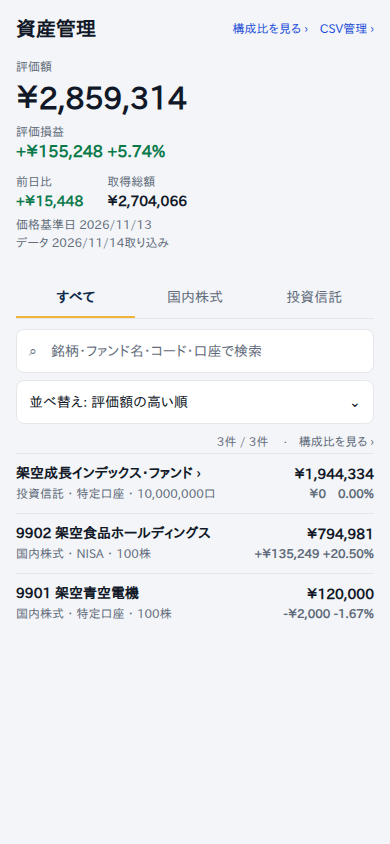
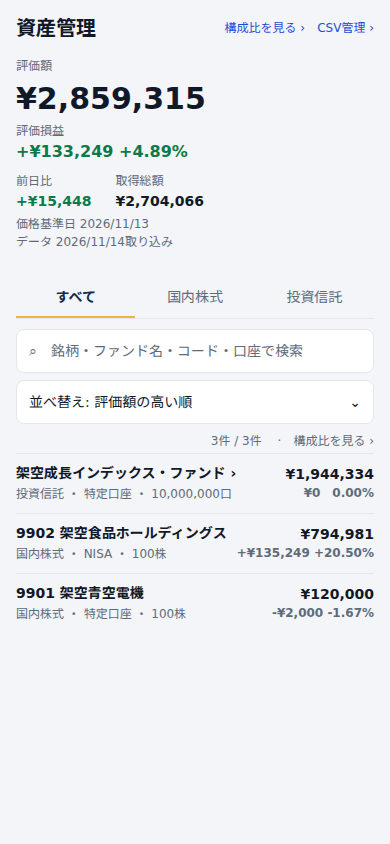
fix: デザイン見本の集計を行合計に合わせる

diff --git a/docs/design/work/phase10-redesign/receipts-pc.html b/docs/design/work/phase10-redesign/receipts-pc.html
@@ -1,2 +1,2 @@
 <!doctype html><html lang="ja" data-theme="light"><head><meta charset="utf-8"><meta name="viewport" content="width=device-width,initial-scale=1"><title>取引明細 | 証券Web</title><style>
-:root{--page:#f3f5f8;--surface:#fff;--ink:#111827;--muted:#5f6b7a;--line:#e5e7eb;--brand:#0f2a4a;--accent:#1d4ed8;--positive:#0b7a4b;--negative:#c0362c;--gold:#f2b33d;--segment:#eef2f8}html[data-theme=dark]{--page:#0e0e10;--surface:#17171a;--ink:#e4e4e7;--muted:#b4b4ba;--line:#29292d;--brand:#f4f4f5;--accent:#8fb3f7;--positive:#53d28a;--negative:#f0857a;--gold:#8fb3f7;--segment:#252528}*{box-sizing:border-box}body{margin:0;background:var(--page);color:var(--ink);font:14px/1.45 system-ui,'Noto Sans JP',sans-serif}.num{font-variant-numeric:tabular-nums}.up{color:var(--positive)}.down{color:var(--negative)}.wrap{max-width:500px;margin:auto;padding:0 16px 24px}.title{display:flex;align-items:center;justify-content:space-between;margin-top:14px}.title h1{font-size:20px;margin:0}.link{color:var(--accent);font-size:13px}.hero{padding:12px 0 8px}.label{font-size:12px;color:var(--muted);margin:0}.total{font-size:30px;font-weight:700;margin:2px 0}.secondary{display:flex;gap:18px;flex-wrap:wrap}.secondary strong{display:block;font-size:15px}.period{font-size:12px;color:var(--muted);margin-top:5px}.tabs{display:flex;border-bottom:1px solid var(--line)}.tabs span{flex:1;text-align:center;padding:12px 0 9px;color:var(--muted);white-space:nowrap}.tabs .active{color:var(--brand);font-weight:700;border-bottom:2px solid var(--gold)}.search,.sort{height:44px;display:flex;align-items:center;padding:0 12px;border:1px solid var(--line);border-radius:8px;background:var(--surface);margin-top:10px;color:var(--muted)}.sort{justify-content:space-between;margin-top:7px;color:var(--ink)}.count{text-align:right;color:var(--muted);font-size:12px;margin:8px 0}.month{margin-top:16px}.monthhead{display:flex;align-items:baseline;justify-content:space-between;gap:6px;border-bottom:1px solid var(--line);padding-bottom:6px}.monthhead h2{font-size:15px;margin:0;white-space:nowrap}.monthhead .totals{font-size:11px;color:var(--muted);text-align:right;white-space:nowrap}.monthhead .totals b{font-weight:700}.row{min-height:58px;border-bottom:1px solid var(--line);display:flex;align-items:center;justify-content:space-between;gap:8px;padding:8px 0}.name{min-width:0}.name strong{display:block;white-space:nowrap;overflow:hidden;text-overflow:ellipsis}.name small{font-size:12px;color:var(--muted)}.amount{text-align:right;white-space:nowrap;font-weight:700}.amount small{display:block;font-size:11px;color:var(--muted);font-weight:400}@media(min-width:700px){body{min-width:1280px}.wrap{max-width:1200px;padding:0 30px 24px}.title{margin-top:18px}.hero{display:flex;align-items:end;gap:28px}.hero .period{margin-left:auto;text-align:right}.secondary{gap:22px}.secondary strong{font-size:20px}.tabs{max-width:600px}.tabs span{padding:13px 20px}.search{margin-top:14px}.sort{display:none}.count{text-align:left}.month{margin-top:18px}.desktop{display:block}.mobile{display:none}table{width:100%;border-collapse:collapse;font-size:13px;margin-top:8px}th,td{padding:9px 10px;border-bottom:1px solid var(--line);white-space:nowrap;text-align:left}th{font-weight:400;color:var(--muted)}td.r,th.r{text-align:right}.monthrow td{background:var(--segment);font-weight:700}.monthrow .monthlabel{font-size:14px}.monthrow .space{border-left:3px solid var(--gold)}}</style></head><body><main class="wrap"><div class="title"><h1>取引明細</h1><span class="link">CSV管理 ›</span></div><section class="hero"><div><p class="label">実現損益(税引後)</p><p class="total num">+¥184,320</p></div><div><p class="label">実現損益(税引前)</p><strong class="up num">+¥232,000</strong></div><div><p class="label">税額</p><strong class="down num">-¥47,680</strong></div><p class="period">2026/01 〜 2026/12 ・ 19件</p></section><div class="tabs"><span>配当金</span><span class="active">国内株式</span><span>投資信託</span></div><div class="search">⌕　銘柄名・コードで検索　　期間: 2026年　　口座: すべて</div><div class="count">19件　・　条件を追加　・　列名クリックで並べ替え</div><table><thead><tr><th>約定日</th><th>銘柄コード</th><th>銘柄名</th><th>口座</th><th class="r">数量</th><th class="r">売却額</th><th class="r">取得価額</th><th class="r">実現損益</th><th class="r">税額</th><th class="r">税引後</th></tr></thead><tbody><tr class="monthrow"><td colspan="7" class="monthlabel">2026年12月・3件</td><td class="r up">+¥42,600</td><td class="r down">-¥7,762</td><td class="r up">+¥34,838</td></tr><tr><td>12/18</td><td>7203</td><td>架空自動車工業</td><td>特定口座</td><td class="r">100株</td><td class="r">¥142,000</td><td class="r">¥103,800</td><td class="r up">+¥38,200</td><td class="r down">-¥7,762</td><td class="r up">+¥30,438</td></tr><tr><td>12/12</td><td>8306</td><td>架空みらい銀行</td><td>NISA</td><td class="r">50株</td><td class="r">¥52,400</td><td class="r">¥40,000</td><td class="r up">+¥12,400</td><td class="r down">¥0</td><td class="r up">+¥12,400</td></tr><tr><td>12/03</td><td>6758</td><td>架空音響機器</td><td>特定口座</td><td class="r">20株</td><td class="r">¥32,000</td><td class="r">¥40,000</td><td class="r down">-¥8,000</td><td class="r down">+¥1,624</td><td class="r down">-¥6,376</td></tr><tr class="monthrow"><td colspan="7" class="monthlabel">2026年11月・2件</td><td class="r down">-¥18,500</td><td class="r up">+¥4,876</td><td class="r down">-¥13,624</td></tr><tr><td>11/20</td><td>9432</td><td>架空通信</td><td>特定口座</td><td class="r">100株</td><td class="r">¥76,000</td><td class="r">¥100,000</td><td class="r down">-¥24,000</td><td class="r down">+¥4,876</td><td class="r down">-¥19,124</td></tr><tr><td>11/08</td><td>7203</td><td>架空自動車工業</td><td>NISA</td><td class="r">10株</td><td class="r">¥28,500</td><td class="r">¥23,000</td><td class="r up">+¥5,500</td><td class="r down">¥0</td><td class="r up">+¥5,500</td></tr><tr class="monthrow"><td colspan="7" class="monthlabel">2026年10月・2件</td><td class="r up">+¥31,200</td><td class="r down">-¥5,258</td><td class="r up">+¥25,942</td></tr><tr><td>10/24</td><td>8306</td><td>架空みらい銀行</td><td>特定口座</td><td class="r">80株</td><td class="r">¥66,000</td><td class="r">¥40,000</td><td class="r up">+¥26,000</td><td class="r down">-¥5,258</td><td class="r up">+¥20,742</td></tr><tr><td>10/10</td><td>6501</td><td>架空電機グループ</td><td>特定口座</td><td class="r">40株</td><td class="r">¥21,200</td><td class="r">¥16,000</td><td class="r up">+¥5,200</td><td class="r down">-¥1,052</td><td class="r up">+¥4,148</td></tr><tr class="monthrow"><td colspan="7" class="monthlabel">2026年9月・2件</td><td class="r up">+¥8,900</td><td class="r down">-¥1,809</td><td class="r up">+¥7,091</td></tr><tr><td>09/21</td><td>6758</td><td>架空音響機器</td><td>特定口座</td><td class="r">30株</td><td class="r">¥48,000</td><td class="r">¥36,000</td><td class="r up">+¥12,000</td><td class="r down">-¥2,438</td><td class="r up">+¥9,562</td></tr><tr><td>09/05</td><td>9432</td><td>架空通信</td><td>特定口座</td><td class="r">100株</td><td class="r">¥56,900</td><td class="r">¥60,000</td><td class="r down">-¥3,100</td><td class="r down">+¥629</td><td class="r down">-¥2,471</td></tr><tr class="monthrow"><td colspan="7" class="monthlabel">2026年8月・1件</td><td class="r up">+¥6,400</td><td class="r down">-¥1,296</td><td class="r up">+¥5,104</td></tr><tr><td>08/19</td><td>7203</td><td>架空自動車工業</td><td>特定口座</td><td class="r">20株</td><td class="r">¥36,400</td><td class="r">¥30,000</td><td class="r up">+¥6,400</td><td class="r down">-¥1,296</td><td class="r up">+¥5,104</td></tr><tr class="monthrow"><td colspan="7" class="monthlabel">2026年7月・1件</td><td class="r down">-¥2,800</td><td class="r up">+¥568</td><td class="r down">-¥2,232</td></tr><tr><td>07/16</td><td>6501</td><td>架空電機グループ</td><td>特定口座</td><td class="r">20株</td><td class="r">¥17,200</td><td class="r">¥20,000</td><td class="r down">-¥2,800</td><td class="r down">+¥568</td><td class="r down">-¥2,232</td></tr><tr class="monthrow"><td colspan="7" class="monthlabel">2026年6月・2件</td><td class="r up">+¥58,200</td><td class="r down">-¥9,244</td><td class="r up">+¥48,956</td></tr><tr><td>06/25</td><td>8306</td><td>架空みらい銀行</td><td>特定口座</td><td class="r">100株</td><td class="r">¥96,000</td><td class="r">¥50,000</td><td class="r up">+¥46,000</td><td class="r down">-¥9,244</td><td class="r up">+¥36,756</td></tr><tr><td>06/11</td><td>7203</td><td>架空自動車工業</td><td>NISA</td><td class="r">25株</td><td class="r">¥52,200</td><td class="r">¥40,000</td><td class="r up">+¥12,200</td><td class="r down">¥0</td><td class="r up">+¥12,200</td></tr><tr class="monthrow"><td colspan="7" class="monthlabel">2026年5月・1件</td><td class="r up">+¥4,100</td><td class="r down">-¥829</td><td class="r up">+¥3,271</td></tr><tr><td>05/20</td><td>9432</td><td>架空通信</td><td>特定口座</td><td class="r">50株</td><td class="r">¥29,100</td><td class="r">¥25,000</td><td class="r up">+¥4,100</td><td class="r down">-¥829</td><td class="r up">+¥3,271</td></tr><tr class="monthrow"><td colspan="7" class="monthlabel">2026年4月・1件</td><td class="r down">-¥1,600</td><td class="r up">+¥325</td><td class="r down">-¥1,275</td></tr><tr><td>04/18</td><td>6501</td><td>架空電機グループ</td><td>特定口座</td><td class="r">10株</td><td class="r">¥14,400</td><td class="r">¥16,000</td><td class="r down">-¥1,600</td><td class="r down">+¥324</td><td class="r down">-¥1,276</td></tr><tr class="monthrow"><td colspan="7" class="monthlabel">2026年3月・2件</td><td class="r up">+¥21,700</td><td class="r down">-¥3,657</td><td class="r up">+¥18,043</td></tr><tr><td>03/28</td><td>7203</td><td>架空自動車工業</td><td>特定口座</td><td class="r">40株</td><td class="r">¥78,000</td><td class="r">¥60,000</td><td class="r up">+¥18,000</td><td class="r down">-¥3,657</td><td class="r up">+¥14,343</td></tr><tr><td>03/15</td><td>8306</td><td>架空みらい銀行</td><td>NISA</td><td class="r">10株</td><td class="r">¥23,700</td><td class="r">¥20,000</td><td class="r up">+¥3,700</td><td class="r down">¥0</td><td class="r up">+¥3,700</td></tr><tr class="monthrow"><td colspan="7" class="monthlabel">2026年2月・1件</td><td class="r up">+¥2,300</td><td class="r down">-¥467</td><td class="r up">+¥1,833</td></tr><tr><td>02/19</td><td>9432</td><td>架空通信</td><td>特定口座</td><td class="r">20株</td><td class="r">¥16,300</td><td class="r">¥14,000</td><td class="r up">+¥2,300</td><td class="r down">-¥466</td><td class="r up">+¥1,834</td></tr><tr class="monthrow"><td colspan="7" class="monthlabel">2026年1月・1件</td><td class="r up">+¥1,800</td><td class="r down">-¥365</td><td class="r up">+¥1,435</td></tr><tr><td>01/20</td><td>7203</td><td>架空自動車工業</td><td>特定口座</td><td class="r">10株</td><td class="r">¥19,800</td><td class="r">¥18,000</td><td class="r up">+¥1,800</td><td class="r down">-¥365</td><td class="r up">+¥1,435</td></tr></tbody></table></main><script>const theme=new URLSearchParams(location.search).get('theme');if(theme)document.documentElement.dataset.theme=theme;</script></body></html>
+:root{--page:#f3f5f8;--surface:#fff;--ink:#111827;--muted:#5f6b7a;--line:#e5e7eb;--brand:#0f2a4a;--accent:#1d4ed8;--positive:#0b7a4b;--negative:#c0362c;--gold:#f2b33d;--segment:#eef2f8}html[data-theme=dark]{--page:#0e0e10;--surface:#17171a;--ink:#e4e4e7;--muted:#b4b4ba;--line:#29292d;--brand:#f4f4f5;--accent:#8fb3f7;--positive:#53d28a;--negative:#f0857a;--gold:#8fb3f7;--segment:#252528}*{box-sizing:border-box}body{margin:0;background:var(--page);color:var(--ink);font:14px/1.45 system-ui,'Noto Sans JP',sans-serif}.num{font-variant-numeric:tabular-nums}.up{color:var(--positive)}.down{color:var(--negative)}.wrap{max-width:500px;margin:auto;padding:0 16px 24px}.title{display:flex;align-items:center;justify-content:space-between;margin-top:14px}.title h1{font-size:20px;margin:0}.link{color:var(--accent);font-size:13px}.hero{padding:12px 0 8px}.label{font-size:12px;color:var(--muted);margin:0}.total{font-size:30px;font-weight:700;margin:2px 0}.secondary{display:flex;gap:18px;flex-wrap:wrap}.secondary strong{display:block;font-size:15px}.period{font-size:12px;color:var(--muted);margin-top:5px}.tabs{display:flex;border-bottom:1px solid var(--line)}.tabs span{flex:1;text-align:center;padding:12px 0 9px;color:var(--muted);white-space:nowrap}.tabs .active{color:var(--brand);font-weight:700;border-bottom:2px solid var(--gold)}.search,.sort{height:44px;display:flex;align-items:center;padding:0 12px;border:1px solid var(--line);border-radius:8px;background:var(--surface);margin-top:10px;color:var(--muted)}.sort{justify-content:space-between;margin-top:7px;color:var(--ink)}.count{text-align:right;color:var(--muted);font-size:12px;margin:8px 0}.month{margin-top:16px}.monthhead{display:flex;align-items:baseline;justify-content:space-between;gap:6px;border-bottom:1px solid var(--line);padding-bottom:6px}.monthhead h2{font-size:15px;margin:0;white-space:nowrap}.monthhead .totals{font-size:11px;color:var(--muted);text-align:right;white-space:nowrap}.monthhead .totals b{font-weight:700}.row{min-height:58px;border-bottom:1px solid var(--line);display:flex;align-items:center;justify-content:space-between;gap:8px;padding:8px 0}.name{min-width:0}.name strong{display:block;white-space:nowrap;overflow:hidden;text-overflow:ellipsis}.name small{font-size:12px;color:var(--muted)}.amount{text-align:right;white-space:nowrap;font-weight:700}.amount small{display:block;font-size:11px;color:var(--muted);font-weight:400}@media(min-width:700px){body{min-width:1280px}.wrap{max-width:1200px;padding:0 30px 24px}.title{margin-top:18px}.hero{display:flex;align-items:end;gap:28px}.hero .period{margin-left:auto;text-align:right}.secondary{gap:22px}.secondary strong{font-size:20px}.tabs{max-width:600px}.tabs span{padding:13px 20px}.search{margin-top:14px}.sort{display:none}.count{text-align:left}.month{margin-top:18px}.desktop{display:block}.mobile{display:none}table{width:100%;border-collapse:collapse;font-size:13px;margin-top:8px}th,td{padding:9px 10px;border-bottom:1px solid var(--line);white-space:nowrap;text-align:left}th{font-weight:400;color:var(--muted)}td.r,th.r{text-align:right}.monthrow td{background:var(--segment);font-weight:700}.monthrow .monthlabel{font-size:14px}.monthrow .space{border-left:3px solid var(--gold)}}</style></head><body><main class="wrap"><div class="title"><h1>取引明細</h1><span class="link">CSV管理 ›</span></div><section class="hero"><div><p class="label">実現損益(税引後)</p><p class="total num">+¥129,955</p></div><div><p class="label">実現損益(税引前)</p><strong class="up num">+¥154,300</strong></div><div><p class="label">税額</p><strong class="down num">-¥24,345</strong></div><p class="period">2026/01 〜 2026/12 ・ 19件</p></section><div class="tabs"><span>配当金</span><span class="active">国内株式</span><span>投資信託</span></div><div class="search">⌕　銘柄名・コードで検索　　期間: 2026年　　口座: すべて</div><div class="count">19件　・　条件を追加　・　列名クリックで並べ替え</div><table><thead><tr><th>約定日</th><th>銘柄コード</th><th>銘柄名</th><th>口座</th><th class="r">数量</th><th class="r">売却額</th><th class="r">取得価額</th><th class="r">実現損益</th><th class="r">税額</th><th class="r">税引後</th></tr></thead><tbody><tr class="monthrow"><td colspan="7" class="monthlabel">2026年12月・3件</td><td class="r up">+¥42,600</td><td class="r down">-¥6,138</td><td class="r up">+¥36,462</td></tr><tr><td>12/18</td><td>7203</td><td>架空自動車工業</td><td>特定口座</td><td class="r">100株</td><td class="r">¥142,000</td><td class="r">¥103,800</td><td class="r up">+¥38,200</td><td class="r down">-¥7,762</td><td class="r up">+¥30,438</td></tr><tr><td>12/12</td><td>8306</td><td>架空みらい銀行</td><td>NISA</td><td class="r">50株</td><td class="r">¥52,400</td><td class="r">¥40,000</td><td class="r up">+¥12,400</td><td class="r down">¥0</td><td class="r up">+¥12,400</td></tr><tr><td>12/03</td><td>6758</td><td>架空音響機器</td><td>特定口座</td><td class="r">20株</td><td class="r">¥32,000</td><td class="r">¥40,000</td><td class="r down">-¥8,000</td><td class="r down">+¥1,624</td><td class="r down">-¥6,376</td></tr><tr class="monthrow"><td colspan="7" class="monthlabel">2026年11月・2件</td><td class="r down">-¥18,500</td><td class="r up">+¥4,876</td><td class="r down">-¥13,624</td></tr><tr><td>11/20</td><td>9432</td><td>架空通信</td><td>特定口座</td><td class="r">100株</td><td class="r">¥76,000</td><td class="r">¥100,000</td><td class="r down">-¥24,000</td><td class="r down">+¥4,876</td><td class="r down">-¥19,124</td></tr><tr><td>11/08</td><td>7203</td><td>架空自動車工業</td><td>NISA</td><td class="r">10株</td><td class="r">¥28,500</td><td class="r">¥23,000</td><td class="r up">+¥5,500</td><td class="r down">¥0</td><td class="r up">+¥5,500</td></tr><tr class="monthrow"><td colspan="7" class="monthlabel">2026年10月・2件</td><td class="r up">+¥31,200</td><td class="r down">-¥6,310</td><td class="r up">+¥24,890</td></tr><tr><td>10/24</td><td>8306</td><td>架空みらい銀行</td><td>特定口座</td><td class="r">80株</td><td class="r">¥66,000</td><td class="r">¥40,000</td><td class="r up">+¥26,000</td><td class="r down">-¥5,258</td><td class="r up">+¥20,742</td></tr><tr><td>10/10</td><td>6501</td><td>架空電機グループ</td><td>特定口座</td><td class="r">40株</td><td class="r">¥21,200</td><td class="r">¥16,000</td><td class="r up">+¥5,200</td><td class="r down">-¥1,052</td><td class="r up">+¥4,148</td></tr><tr class="monthrow"><td colspan="7" class="monthlabel">2026年9月・2件</td><td class="r up">+¥8,900</td><td class="r down">-¥1,809</td><td class="r up">+¥7,091</td></tr><tr><td>09/21</td><td>6758</td><td>架空音響機器</td><td>特定口座</td><td class="r">30株</td><td class="r">¥48,000</td><td class="r">¥36,000</td><td class="r up">+¥12,000</td><td class="r down">-¥2,438</td><td class="r up">+¥9,562</td></tr><tr><td>09/05</td><td>9432</td><td>架空通信</td><td>特定口座</td><td class="r">100株</td><td class="r">¥56,900</td><td class="r">¥60,000</td><td class="r down">-¥3,100</td><td class="r down">+¥629</td><td class="r down">-¥2,471</td></tr><tr class="monthrow"><td colspan="7" class="monthlabel">2026年8月・1件</td><td class="r up">+¥6,400</td><td class="r down">-¥1,296</td><td class="r up">+¥5,104</td></tr><tr><td>08/19</td><td>7203</td><td>架空自動車工業</td><td>特定口座</td><td class="r">20株</td><td class="r">¥36,400</td><td class="r">¥30,000</td><td class="r up">+¥6,400</td><td class="r down">-¥1,296</td><td class="r up">+¥5,104</td></tr><tr class="monthrow"><td colspan="7" class="monthlabel">2026年7月・1件</td><td class="r down">-¥2,800</td><td class="r up">+¥568</td><td class="r down">-¥2,232</td></tr><tr><td>07/16</td><td>6501</td><td>架空電機グループ</td><td>特定口座</td><td class="r">20株</td><td class="r">¥17,200</td><td class="r">¥20,000</td><td class="r down">-¥2,800</td><td class="r down">+¥568</td><td class="r down">-¥2,232</td></tr><tr class="monthrow"><td colspan="7" class="monthlabel">2026年6月・2件</td><td class="r up">+¥58,200</td><td class="r down">-¥9,244</td><td class="r up">+¥48,956</td></tr><tr><td>06/25</td><td>8306</td><td>架空みらい銀行</td><td>特定口座</td><td class="r">100株</td><td class="r">¥96,000</td><td class="r">¥50,000</td><td class="r up">+¥46,000</td><td class="r down">-¥9,244</td><td class="r up">+¥36,756</td></tr><tr><td>06/11</td><td>7203</td><td>架空自動車工業</td><td>NISA</td><td class="r">25株</td><td class="r">¥52,200</td><td class="r">¥40,000</td><td class="r up">+¥12,200</td><td class="r down">¥0</td><td class="r up">+¥12,200</td></tr><tr class="monthrow"><td colspan="7" class="monthlabel">2026年5月・1件</td><td class="r up">+¥4,100</td><td class="r down">-¥829</td><td class="r up">+¥3,271</td></tr><tr><td>05/20</td><td>9432</td><td>架空通信</td><td>特定口座</td><td class="r">50株</td><td class="r">¥29,100</td><td class="r">¥25,000</td><td class="r up">+¥4,100</td><td class="r down">-¥829</td><td class="r up">+¥3,271</td></tr><tr class="monthrow"><td colspan="7" class="monthlabel">2026年4月・1件</td><td class="r down">-¥1,600</td><td class="r up">+¥325</td><td class="r down">-¥1,275</td></tr><tr><td>04/18</td><td>6501</td><td>架空電機グループ</td><td>特定口座</td><td class="r">10株</td><td class="r">¥14,400</td><td class="r">¥16,000</td><td class="r down">-¥1,600</td><td class="r down">+¥325</td><td class="r down">-¥1,275</td></tr><tr class="monthrow"><td colspan="7" class="monthlabel">2026年3月・2件</td><td class="r up">+¥21,700</td><td class="r down">-¥3,657</td><td class="r up">+¥18,043</td></tr><tr><td>03/28</td><td>7203</td><td>架空自動車工業</td><td>特定口座</td><td class="r">40株</td><td class="r">¥78,000</td><td class="r">¥60,000</td><td class="r up">+¥18,000</td><td class="r down">-¥3,657</td><td class="r up">+¥14,343</td></tr><tr><td>03/15</td><td>8306</td><td>架空みらい銀行</td><td>NISA</td><td class="r">10株</td><td class="r">¥23,700</td><td class="r">¥20,000</td><td class="r up">+¥3,700</td><td class="r down">¥0</td><td class="r up">+¥3,700</td></tr><tr class="monthrow"><td colspan="7" class="monthlabel">2026年2月・1件</td><td class="r up">+¥2,300</td><td class="r down">-¥466</td><td class="r up">+¥1,834</td></tr><tr><td>02/19</td><td>9432</td><td>架空通信</td><td>特定口座</td><td class="r">20株</td><td class="r">¥16,300</td><td class="r">¥14,000</td><td class="r up">+¥2,300</td><td class="r down">-¥466</td><td class="r up">+¥1,834</td></tr><tr class="monthrow"><td colspan="7" class="monthlabel">2026年1月・1件</td><td class="r up">+¥1,800</td><td class="r down">-¥365</td><td class="r up">+¥1,435</td></tr><tr><td>01/20</td><td>7203</td><td>架空自動車工業</td><td>特定口座</td><td class="r">10株</td><td class="r">¥19,800</td><td class="r">¥18,000</td><td class="r up">+¥1,800</td><td class="r down">-¥365</td><td class="r up">+¥1,435</td></tr></tbody></table></main><script>const theme=new URLSearchParams(location.search).get('theme');if(theme)document.documentElement.dataset.theme=theme;</script></body></html>

diff --git a/docs/design/work/phase10-redesign/receipts-mobile.html b/docs/design/work/phase10-redesign/receipts-mobile.html
@@ -1,6 +1,6 @@
 <!doctype html><html lang="ja" data-theme="light"><head><meta charset="utf-8"><meta name="viewport" content="width=device-width,initial-scale=1"><title>取引明細 | 証券Web</title><style>
 :root{--page:#f3f5f8;--surface:#fff;--ink:#111827;--muted:#5f6b7a;--line:#e5e7eb;--brand:#0f2a4a;--accent:#1d4ed8;--positive:#0b7a4b;--negative:#c0362c;--gold:#f2b33d;--segment:#eef2f8}html[data-theme=dark]{--page:#0e0e10;--surface:#17171a;--ink:#e4e4e7;--muted:#b4b4ba;--line:#29292d;--brand:#f4f4f5;--accent:#8fb3f7;--positive:#53d28a;--negative:#f0857a;--gold:#8fb3f7;--segment:#252528}*{box-sizing:border-box}body{margin:0;background:var(--page);color:var(--ink);font:14px/1.45 system-ui,'Noto Sans JP',sans-serif}.num{font-variant-numeric:tabular-nums}.up{color:var(--positive)}.down{color:var(--negative)}.wrap{max-width:500px;margin:auto;padding:0 16px 24px}.title{display:flex;align-items:center;justify-content:space-between;margin-top:14px}.title h1{font-size:20px;margin:0}.link{color:var(--accent);font-size:13px}.hero{padding:12px 0 8px}.label{font-size:12px;color:var(--muted);margin:0}.total{font-size:30px;font-weight:700;margin:2px 0}.secondary{display:flex;gap:18px;flex-wrap:wrap}.secondary strong{display:block;font-size:15px}.period{font-size:12px;color:var(--muted);margin-top:5px}.tabs{display:flex;border-bottom:1px solid var(--line)}.tabs span{flex:1;text-align:center;padding:12px 0 9px;color:var(--muted);white-space:nowrap}.tabs .active{color:var(--brand);font-weight:700;border-bottom:2px solid var(--gold)}.search,.sort{height:44px;display:flex;align-items:center;padding:0 12px;border:1px solid var(--line);border-radius:8px;background:var(--surface);margin-top:10px;color:var(--muted)}.sort{justify-content:space-between;margin-top:7px;color:var(--ink)}.count{text-align:right;color:var(--muted);font-size:12px;margin:8px 0}.month{margin-top:16px}.monthhead{display:flex;align-items:baseline;justify-content:space-between;gap:6px;border-bottom:1px solid var(--line);padding-bottom:6px}.monthhead h2{font-size:15px;margin:0;white-space:nowrap}.monthhead .totals{font-size:11px;color:var(--muted);text-align:right;white-space:nowrap}.monthhead .totals b{font-weight:700}.row{min-height:58px;border-bottom:1px solid var(--line);display:flex;align-items:center;justify-content:space-between;gap:8px;padding:8px 0}.name{min-width:0}.name strong{display:block;white-space:nowrap;overflow:hidden;text-overflow:ellipsis}.name small{font-size:12px;color:var(--muted)}.amount{text-align:right;white-space:nowrap;font-weight:700}.amount small{display:block;font-size:11px;color:var(--muted);font-weight:400}@media(min-width:700px){body{min-width:1280px}.wrap{max-width:1200px;padding:0 30px 24px}.title{margin-top:18px}.hero{display:flex;align-items:end;gap:28px}.hero .period{margin-left:auto;text-align:right}.secondary{gap:22px}.secondary strong{font-size:20px}.tabs{max-width:600px}.tabs span{padding:13px 20px}.search{margin-top:14px}.sort{display:none}.count{text-align:left}.month{margin-top:18px}.desktop{display:block}.mobile{display:none}table{width:100%;border-collapse:collapse;font-size:13px;margin-top:8px}th,td{padding:9px 10px;border-bottom:1px solid var(--line);white-space:nowrap;text-align:left}th{font-weight:400;color:var(--muted)}td.r,th.r{text-align:right}.monthrow td{background:var(--segment);font-weight:700}.monthrow .monthlabel{font-size:14px}.monthrow .space{border-left:3px solid var(--gold)}}@media(min-width:700px){}
-</style></head><body><main class="wrap"><div class="title"><h1>取引明細</h1><span class="link">CSV管理 ›</span></div><section class="hero"><div><p class="label">実現損益(税引後)</p><p class="total num">+¥184,320</p><div class="secondary"><div><span class="label">税引前</span><strong class="up num">+¥232,000</strong></div><div><span class="label">税額</span><strong class="down num">-¥47,680</strong></div></div></div><p class="period">2026/01 〜 2026/12 ・ 19件</p></section><div class="tabs"><span>配当金</span><span class="active">国内株式</span><span>投資信託</span></div><div class="search">⌕　銘柄名・コードで検索</div><div class="sort">並べ替え: 約定日の新しい順 <span>⌄</span></div><p class="count">19件　・　条件を追加</p>
+</style></head><body><main class="wrap"><div class="title"><h1>取引明細</h1><span class="link">CSV管理 ›</span></div><section class="hero"><div><p class="label">実現損益(税引後)</p><p class="total num">+¥129,955</p><div class="secondary"><div><span class="label">税引前</span><strong class="up num">+¥154,300</strong></div><div><span class="label">税額</span><strong class="down num">-¥24,345</strong></div></div></div><p class="period">2026/01 〜 2026/12 ・ 19件</p></section><div class="tabs"><span>配当金</span><span class="active">国内株式</span><span>投資信託</span></div><div class="search">⌕　銘柄名・コードで検索</div><div class="sort">並べ替え: 約定日の新しい順 <span>⌄</span></div><p class="count">19件　・　条件を追加</p>
 <section class="month"><div class="monthhead"><h2>2026年12月・3件</h2><span class="totals">損益 <b class="up">+¥42,600</b></span></div><div class="row"><div class="name"><strong>7203 架空自動車工業</strong><small>12/18 ・ 特定口座 ・ 売却 100株</small></div><div class="amount up">+¥38,200<small>税引後 +¥30,438</small></div></div><div class="row"><div class="name"><strong>8306 架空みらい銀行</strong><small>12/12 ・ NISA ・ 売却 50株</small></div><div class="amount up">+¥12,400<small>税引後 +¥12,400</small></div></div><div class="row"><div class="name"><strong>6758 架空音響機器</strong><small>12/03 ・ 特定口座 ・ 売却 20株</small></div><div class="amount down">-¥8,000<small>税引後 -¥6,376</small></div></div></section>
 <section class="month"><div class="monthhead"><h2>2026年11月・2件</h2><span class="totals">損益 <b class="down">-¥18,500</b></span></div><div class="row"><div class="name"><strong>9432 架空通信</strong><small>11/20 ・ 特定口座 ・ 売却 100株</small></div><div class="amount down">-¥24,000<small>税引後 -¥19,124</small></div></div><div class="row"><div class="name"><strong>7203 架空自動車工業</strong><small>11/08 ・ NISA ・ 売却 10株</small></div><div class="amount up">+¥5,500<small>税引後 +¥5,500</small></div></div></section>
 <section class="month"><div class="monthhead"><h2>2026年10月・2件</h2><span class="totals">損益 <b class="up">+¥31,200</b></span></div><div class="row"><div class="name"><strong>8306 架空みらい銀行</strong><small>10/24 ・ 特定口座 ・ 売却 80株</small></div><div class="amount up">+¥26,000<small>税引後 +¥20,742</small></div></div><div class="row"><div class="name"><strong>6501 架空電機グループ</strong><small>10/10 ・ 特定口座 ・ 売却 40株</small></div><div class="amount up">+¥5,200<small>税引後 +¥4,148</small></div></div></section>
@@ -9,7 +9,7 @@
 <section class="month"><div class="monthhead"><h2>2026年7月・1件</h2><span class="totals">損益 <b class="down">-¥2,800</b></span></div><div class="row"><div class="name"><strong>6501 架空電機グループ</strong><small>07/16 ・ 特定口座 ・ 売却 20株</small></div><div class="amount down">-¥2,800<small>税引後 -¥2,232</small></div></div></section>
 <section class="month"><div class="monthhead"><h2>2026年6月・2件</h2><span class="totals">損益 <b class="up">+¥58,200</b></span></div><div class="row"><div class="name"><strong>8306 架空みらい銀行</strong><small>06/25 ・ 特定口座 ・ 売却 100株</small></div><div class="amount up">+¥46,000<small>税引後 +¥36,756</small></div></div><div class="row"><div class="name"><strong>7203 架空自動車工業</strong><small>06/11 ・ NISA ・ 売却 25株</small></div><div class="amount up">+¥12,200<small>税引後 +¥12,200</small></div></div></section>
 <section class="month"><div class="monthhead"><h2>2026年5月・1件</h2><span class="totals">損益 <b class="up">+¥4,100</b></span></div><div class="row"><div class="name"><strong>9432 架空通信</strong><small>05/20 ・ 特定口座 ・ 売却 50株</small></div><div class="amount up">+¥4,100<small>税引後 +¥3,271</small></div></div></section>
-<section class="month"><div class="monthhead"><h2>2026年4月・1件</h2><span class="totals">損益 <b class="down">-¥1,600</b></span></div><div class="row"><div class="name"><strong>6501 架空電機グループ</strong><small>04/18 ・ 特定口座 ・ 売却 10株</small></div><div class="amount down">-¥1,600<small>税引後 -¥1,276</small></div></div></section>
+<section class="month"><div class="monthhead"><h2>2026年4月・1件</h2><span class="totals">損益 <b class="down">-¥1,600</b></span></div><div class="row"><div class="name"><strong>6501 架空電機グループ</strong><small>04/18 ・ 特定口座 ・ 売却 10株</small></div><div class="amount down">-¥1,600<small>税引後 -¥1,275</small></div></div></section>
 <section class="month"><div class="monthhead"><h2>2026年3月・2件</h2><span class="totals">損益 <b class="up">+¥21,700</b></span></div><div class="row"><div class="name"><strong>7203 架空自動車工業</strong><small>03/28 ・ 特定口座 ・ 売却 40株</small></div><div class="amount up">+¥18,000<small>税引後 +¥14,343</small></div></div><div class="row"><div class="name"><strong>8306 架空みらい銀行</strong><small>03/15 ・ NISA ・ 売却 10株</small></div><div class="amount up">+¥3,700<small>税引後 +¥3,700</small></div></div></section>
 <section class="month"><div class="monthhead"><h2>2026年2月・1件</h2><span class="totals">損益 <b class="up">+¥2,300</b></span></div><div class="row"><div class="name"><strong>9432 架空通信</strong><small>02/19 ・ 特定口座 ・ 売却 20株</small></div><div class="amount up">+¥2,300<small>税引後 +¥1,834</small></div></div></section>
 <section class="month"><div class="monthhead"><h2>2026年1月・1件</h2><span class="totals">損益 <b class="up">+¥1,800</b></span></div><div class="row"><div class="name"><strong>7203 架空自動車工業</strong><small>01/20 ・ 特定口座 ・ 売却 10株</small></div><div class="amount up">+¥1,800<small>税引後 +¥1,435</small></div></div></section></main><script>const theme=new URLSearchParams(location.search).get('theme');if(theme)document.documentElement.dataset.theme=theme;</script></body></html>

diff --git a/docs/design/work/phase10-redesign/assetbalance-mobile.html b/docs/design/work/phase10-redesign/assetbalance-mobile.html
@@ -1,4 +1,4 @@
 <!doctype html><html lang="ja" data-theme="light"><head><meta charset="utf-8"><meta name="viewport" content="width=device-width,initial-scale=1"><title>資産管理 | 証券Web</title><style>
 :root{--page:#f3f5f8;--surface:#fff;--ink:#111827;--muted:#5f6b7a;--line:#e5e7eb;--brand:#0f2a4a;--accent:#1d4ed8;--positive:#0b7a4b;--negative:#c0362c;--gold:#f2b33d}html[data-theme=dark]{--page:#0e0e10;--surface:#17171a;--ink:#e4e4e7;--muted:#b4b4ba;--line:#29292d;--brand:#f4f4f5;--accent:#8fb3f7;--positive:#53d28a;--negative:#f0857a;--gold:#8fb3f7}*{box-sizing:border-box}body{margin:0;background:var(--page);color:var(--ink);font:14px/1.45 system-ui,'Noto Sans JP',sans-serif}.num{font-variant-numeric:tabular-nums}.up{color:var(--positive)}.down{color:var(--negative)}.wrap{padding:0 16px 24px;max-width:500px;margin:auto}.title{display:flex;justify-content:space-between;align-items:center;margin-top:14px}.title h1{font-size:20px;margin:0}.links{display:flex;gap:12px;color:var(--accent);font-size:12px}.hero{padding:15px 0}.label{font-size:12px;color:var(--muted);margin:0}.total{font-size:30px;font-weight:700;margin:2px 0}.pl{font-size:16px;font-weight:700;margin:0}.date{font-size:12px;color:var(--muted);margin:5px 0}.extra{display:flex;gap:24px;margin-top:10px}.extra strong{display:block}.tabs{display:flex;border-bottom:1px solid var(--line);margin-top:4px}.tabs span{flex:1;text-align:center;white-space:nowrap;padding:12px 0 9px;color:var(--muted)}.tabs .active{color:var(--brand);font-weight:700;border-bottom:2px solid var(--gold)}.search,.sort{border:1px solid var(--line);border-radius:8px;background:var(--surface);height:44px;padding:0 12px;display:flex;align-items:center;margin-top:10px;color:var(--muted)}.sort{justify-content:space-between;color:var(--ink);margin-top:7px}.count{font-size:12px;color:var(--muted);text-align:right;margin:9px 0 2px}.row{min-height:60px;border-top:1px solid var(--line);display:flex;align-items:center;justify-content:space-between;gap:8px;padding:8px 0}.row .name{min-width:0}.row strong{display:block;white-space:nowrap;overflow:hidden;text-overflow:ellipsis}.row small{font-size:12px;color:var(--muted)}.amount{text-align:right;white-space:nowrap;font-weight:700}.amount small{display:block}@media(min-width:700px){.mobile{display:none}.desktop{display:block}body{min-width:1280px}.wrap{max-width:1200px;padding:0 30px 24px}.title{margin-top:18px}.hero{display:flex;align-items:end;gap:28px}.hero .date{margin-left:auto;text-align:right}.extra{margin:0 0 0 0}.search{margin-top:14px}.sort{display:none}.mobile{display:block}.desktop{display:none}.rows{overflow:auto}table{width:100%;border-collapse:collapse;margin-top:10px;font-size:13px}th,td{padding:11px 10px;border-bottom:1px solid var(--line);white-space:nowrap;text-align:left}th{color:var(--muted);font-weight:400;text-align:left}td.r,th.r{text-align:right}td.name{max-width:280px;overflow:hidden;text-overflow:ellipsis}.count{text-align:left}}
 @media(min-width:700px){}
-</style></head><body><main class="wrap"><div class="title"><h1>資産管理</h1><div class="links"><span>構成比を見る ›</span><span>CSV管理 ›</span></div></div><section class="hero"><div><p class="label">評価額</p><p class="total num">¥2,859,314</p></div><div><p class="label">評価損益</p><p class="pl up num">+¥155,248 +5.74%</p></div><div class="extra"><div><p class="label">前日比</p><strong class="up num">+¥15,448</strong></div><div><p class="label">取得総額</p><strong class="num">¥2,704,066</strong></div></div><p class="date">価格基準日 2026/11/13<br>データ 2026/11/14取り込み</p></section><div class="tabs"><span class="active">すべて</span><span>国内株式</span><span>投資信託</span></div><div class="search">⌕　銘柄・ファンド名・コード・口座で検索</div><div class="sort">並べ替え: 評価額の高い順 <span>⌄</span></div><div class="count">3件 / 3件　 ·　構成比を見る ›</div><div class="rows mobile"><div class="row"><div class="name"><strong>架空成長インデックス・ファンド ›</strong><small>投資信託 ・ 特定口座 ・ 10,000,000口</small></div><div class="amount">¥1,944,334<small>¥0　0.00%</small></div></div><div class="row"><div class="name"><strong>9902 架空食品ホールディングス</strong><small>国内株式 ・ NISA ・ 100株</small></div><div class="amount">¥794,981<small class="up">+¥135,249 +20.50%</small></div></div><div class="row"><div class="name"><strong>9901 架空青空電機</strong><small>国内株式 ・ 特定口座 ・ 100株</small></div><div class="amount">¥120,000<small class="down">-¥2,000 -1.67%</small></div></div></div><div class="rows desktop" style="display:none"><table><thead><tr><th>コード</th><th>銘柄・ファンド</th><th>種別</th><th>口座</th><th>分配金</th><th class="r">1株配当</th><th class="r">前日比</th><th class="r">評価額</th><th class="r">評価損益</th></tr></thead><tbody><tr><td>—</td><td class="name">架空成長インデックス・ファンド ›</td><td>投資信託</td><td>特定口座</td><td>再投資</td><td class="r">—</td><td class="r">—</td><td class="r">¥1,944,334</td><td class="r">¥0 0.00%</td></tr><tr><td>9902</td><td>架空食品ホールディングス</td><td>国内株式</td><td>NISA</td><td>—</td><td class="r">¥3,933.91</td><td class="r up">+¥15,448</td><td class="r">¥794,981</td><td class="r up">+¥135,249 +20.50%</td></tr><tr><td>9901</td><td>架空青空電機</td><td>国内株式</td><td>特定口座</td><td>—</td><td class="r">¥36</td><td class="r down">-¥2,000</td><td class="r">¥120,000</td><td class="r down">-¥2,000 -1.67%</td></tr></tbody></table></div></main><script>const theme=new URLSearchParams(location.search).get('theme');if(theme)document.documentElement.dataset.theme=theme;</script></body></html>
+</style></head><body><main class="wrap"><div class="title"><h1>資産管理</h1><div class="links"><span>構成比を見る ›</span><span>CSV管理 ›</span></div></div><section class="hero"><div><p class="label">評価額</p><p class="total num">¥2,859,315</p></div><div><p class="label">評価損益</p><p class="pl up num">+¥133,249 +4.89%</p></div><div class="extra"><div><p class="label">前日比</p><strong class="up num">+¥15,448</strong></div><div><p class="label">取得総額</p><strong class="num">¥2,704,066</strong></div></div><p class="date">価格基準日 2026/11/13<br>データ 2026/11/14取り込み</p></section><div class="tabs"><span class="active">すべて</span><span>国内株式</span><span>投資信託</span></div><div class="search">⌕　銘柄・ファンド名・コード・口座で検索</div><div class="sort">並べ替え: 評価額の高い順 <span>⌄</span></div><div class="count">3件 / 3件　 ·　構成比を見る ›</div><div class="rows mobile"><div class="row"><div class="name"><strong>架空成長インデックス・ファンド ›</strong><small>投資信託 ・ 特定口座 ・ 10,000,000口</small></div><div class="amount">¥1,944,334<small>¥0　0.00%</small></div></div><div class="row"><div class="name"><strong>9902 架空食品ホールディングス</strong><small>国内株式 ・ NISA ・ 100株</small></div><div class="amount">¥794,981<small class="up">+¥135,249 +20.50%</small></div></div><div class="row"><div class="name"><strong>9901 架空青空電機</strong><small>国内株式 ・ 特定口座 ・ 100株</small></div><div class="amount">¥120,000<small class="down">-¥2,000 -1.67%</small></div></div></div><div class="rows desktop" style="display:none"><table><thead><tr><th>コード</th><th>銘柄・ファンド</th><th>種別</th><th>口座</th><th>分配金</th><th class="r">1株配当</th><th class="r">前日比</th><th class="r">評価額</th><th class="r">評価損益</th></tr></thead><tbody><tr><td>—</td><td class="name">架空成長インデックス・ファンド ›</td><td>投資信託</td><td>特定口座</td><td>再投資</td><td class="r">—</td><td class="r">—</td><td class="r">¥1,944,334</td><td class="r">¥0 0.00%</td></tr><tr><td>9902</td><td>架空食品ホールディングス</td><td>国内株式</td><td>NISA</td><td>—</td><td class="r">¥3,933.91</td><td class="r up">+¥15,448</td><td class="r">¥794,981</td><td class="r up">+¥135,249 +20.50%</td></tr><tr><td>9901</td><td>架空青空電機</td><td>国内株式</td><td>特定口座</td><td>—</td><td class="r">¥36</td><td class="r down">-¥2,000</td><td class="r">¥120,000</td><td class="r down">-¥2,000 -1.67%</td></tr></tbody></table></div></main><script>const theme=new URLSearchParams(location.search).get('theme');if(theme)document.documentElement.dataset.theme=theme;</script></body></html>

diff --git a/docs/design/work/phase10-redesign/assetbalance-pc.html b/docs/design/work/phase10-redesign/assetbalance-pc.html
@@ -1,3 +1,3 @@
 <!doctype html><html lang="ja" data-theme="light"><head><meta charset="utf-8"><meta name="viewport" content="width=device-width,initial-scale=1"><title>資産管理 | 証券Web</title><style>
 :root{--page:#f3f5f8;--surface:#fff;--ink:#111827;--muted:#5f6b7a;--line:#e5e7eb;--brand:#0f2a4a;--accent:#1d4ed8;--positive:#0b7a4b;--negative:#c0362c;--gold:#f2b33d}html[data-theme=dark]{--page:#0e0e10;--surface:#17171a;--ink:#e4e4e7;--muted:#b4b4ba;--line:#29292d;--brand:#f4f4f5;--accent:#8fb3f7;--positive:#53d28a;--negative:#f0857a;--gold:#8fb3f7}*{box-sizing:border-box}body{margin:0;background:var(--page);color:var(--ink);font:14px/1.45 system-ui,'Noto Sans JP',sans-serif}.num{font-variant-numeric:tabular-nums}.up{color:var(--positive)}.down{color:var(--negative)}nav{display:flex;align-items:center;height:100%;gap:28px}nav span{display:flex;align-items:center;height:100%;padding:0;color:var(--muted)}nav .current{font-weight:700;color:var(--ink);border-bottom:2px solid var(--accent)}.wrap{max-width:1260px;margin:auto;padding:0 30px 24px}.title{display:flex;justify-content:space-between;align-items:center;margin-top:18px}.title h1{font-size:20px;margin:0}.links{display:flex;gap:16px;color:var(--accent);font-size:13px}.hero{display:flex;align-items:end;gap:26px;padding:22px 0}.label{font-size:13px;color:var(--muted);margin:0}.total{font-size:32px;font-weight:700;margin:4px 0}.pl{font-size:21px;font-weight:700;margin:4px 0}.extra{display:flex;gap:24px}.extra strong{font-size:18px}.date{margin-left:auto;text-align:right;font-size:13px;color:var(--muted);line-height:1.8}.tabs{display:flex;gap:28px;border-bottom:1px solid var(--line);margin-top:3px}.tabs span{padding:12px 4px;color:var(--muted)}.tabs .active{border-bottom:2px solid var(--gold);color:var(--brand);font-weight:700}.search{height:44px;margin-top:14px;border:1px solid var(--line);border-radius:8px;background:var(--surface);display:flex;align-items:center;padding:0 12px;color:var(--muted)}.count{font-size:12px;color:var(--muted);margin:10px 0 0}table{width:100%;border-collapse:collapse;margin-top:8px;font-size:13px}th,td{border-bottom:1px solid var(--line);padding:11px 10px;text-align:left;white-space:nowrap}th{color:var(--muted);font-weight:400}td.r,th.r{text-align:right}td.name{max-width:320px;overflow:hidden;text-overflow:ellipsis}
-</style></head><body><main class="wrap"><div class="title"><h1>資産管理</h1><div class="links"><span>構成比を見る ›</span><span>CSV管理 ›</span></div></div><section class="hero"><div><p class="label">評価額</p><p class="total num">¥2,859,314</p></div><div><p class="label">評価損益</p><p class="pl up num">+¥155,248 +5.74%</p></div><div class="extra"><div><p class="label">前日比</p><strong class="up num">+¥15,448</strong></div><div><p class="label">取得総額</p><strong class="num">¥2,704,066</strong></div></div><div class="date">価格基準日 2026/11/13<br>データ 2026/11/14取り込み</div></section><div class="tabs"><span class="active">すべて</span><span>国内株式</span><span>投資信託</span></div><div class="search">⌕　銘柄・ファンド名・コード・口座で検索</div><div class="count">3件 / 3件　 ·　列名クリックで並べ替え　 ·　構成比を見る ›</div><table><thead><tr><th>コード</th><th>銘柄・ファンド</th><th>種別</th><th>口座</th><th>分配金コース</th><th class="r">1株配当</th><th class="r">前日比</th><th class="r">評価額</th><th class="r">評価損益</th></tr></thead><tbody><tr><td>—</td><td class="name">架空成長インデックス・ファンド ›</td><td>投資信託</td><td>特定口座</td><td>再投資</td><td class="r">—</td><td class="r">—</td><td class="r">¥1,944,334</td><td class="r">¥0 0.00%</td></tr><tr><td>9902</td><td>架空食品ホールディングス</td><td>国内株式</td><td>NISA</td><td>—</td><td class="r">¥3,933.91</td><td class="r up">+¥15,448</td><td class="r">¥794,981</td><td class="r up">+¥135,249 +20.50%</td></tr><tr><td>9901</td><td>架空青空電機</td><td>国内株式</td><td>特定口座</td><td>—</td><td class="r">¥36</td><td class="r down">-¥2,000</td><td class="r">¥120,000</td><td class="r down">-¥2,000 -1.67%</td></tr></tbody></table></main><script>const theme=new URLSearchParams(location.search).get('theme');if(theme)document.documentElement.dataset.theme=theme;</script></body></html>
+</style></head><body><main class="wrap"><div class="title"><h1>資産管理</h1><div class="links"><span>構成比を見る ›</span><span>CSV管理 ›</span></div></div><section class="hero"><div><p class="label">評価額</p><p class="total num">¥2,859,315</p></div><div><p class="label">評価損益</p><p class="pl up num">+¥133,249 +4.89%</p></div><div class="extra"><div><p class="label">前日比</p><strong class="up num">+¥15,448</strong></div><div><p class="label">取得総額</p><strong class="num">¥2,704,066</strong></div></div><div class="date">価格基準日 2026/11/13<br>データ 2026/11/14取り込み</div></section><div class="tabs"><span class="active">すべて</span><span>国内株式</span><span>投資信託</span></div><div class="search">⌕　銘柄・ファンド名・コード・口座で検索</div><div class="count">3件 / 3件　 ·　列名クリックで並べ替え　 ·　構成比を見る ›</div><table><thead><tr><th>コード</th><th>銘柄・ファンド</th><th>種別</th><th>口座</th><th>分配金コース</th><th class="r">1株配当</th><th class="r">前日比</th><th class="r">評価額</th><th class="r">評価損益</th></tr></thead><tbody><tr><td>—</td><td class="name">架空成長インデックス・ファンド ›</td><td>投資信託</td><td>特定口座</td><td>再投資</td><td class="r">—</td><td class="r">—</td><td class="r">¥1,944,334</td><td class="r">¥0 0.00%</td></tr><tr><td>9902</td><td>架空食品ホールディングス</td><td>国内株式</td><td>NISA</td><td>—</td><td class="r">¥3,933.91</td><td class="r up">+¥15,448</td><td class="r">¥794,981</td><td class="r up">+¥135,249 +20.50%</td></tr><tr><td>9901</td><td>架空青空電機</td><td>国内株式</td><td>特定口座</td><td>—</td><td class="r">¥36</td><td class="r down">-¥2,000</td><td class="r">¥120,000</td><td class="r down">-¥2,000 -1.67%</td></tr></tbody></table></main><script>const theme=new URLSearchParams(location.search).get('theme');if(theme)document.documentElement.dataset.theme=theme;</script></body></html>
